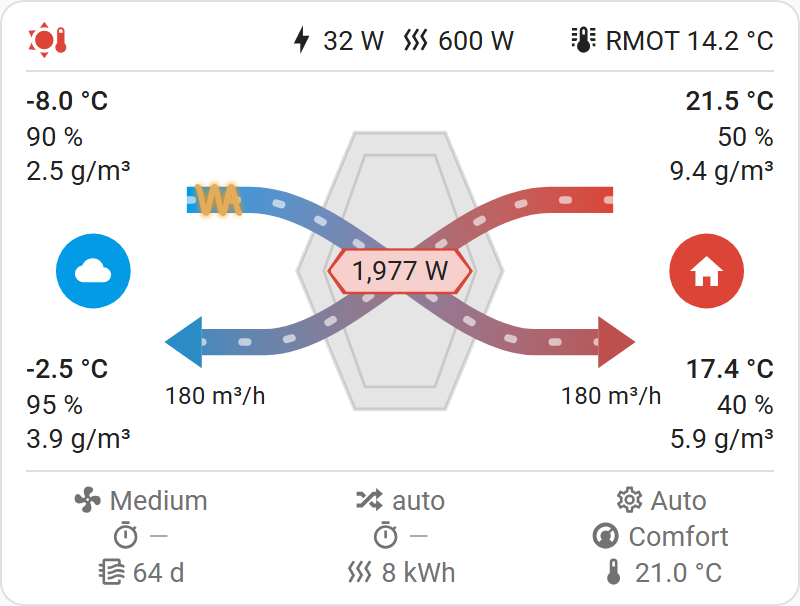
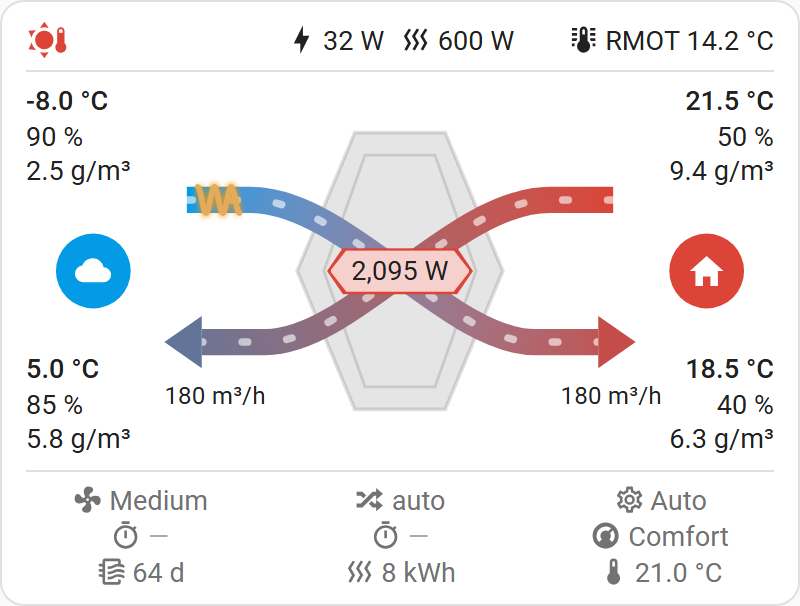
Group 7 review fixes (task 7.7)
Claude-Session: https://claude.ai/code/session_01HrZPjWz9gCSDpFKPRRFMuX

diff --git a/dev/preview.ts b/dev/preview.ts
@@ -58,10 +58,12 @@ const SCENARIOS: Readonly<Record<string, Scenario>> = {
     bypass: 50,
     season: 'between',
   },
-  // Frost: the pre-heater warms the outdoor air before the exchanger. Pick a kind and a maximum power to see the coil.
+  // Frost: the pre-heater warms the outdoor air before the exchanger: 600 W at 180 m³/h is +10 K, so the exchanger's
+  // inlet is about 2 °C and the exhaust and supply air lie between that and the extract air. Pick a kind and a maximum
+  // power to see the coil.
   'frost (pre-heater on)': {
-    temperature: { outdoor: -8, supply: 17.4, extract: 21.5, exhaust: -2.5 },
-    humidity: { outdoor: 90, supply: 40, extract: 50, exhaust: 95 },
+    temperature: { outdoor: -8, supply: 18.5, extract: 21.5, exhaust: 5 },
+    humidity: { outdoor: 90, supply: 40, extract: 50, exhaust: 85 },
     flow: 180,
     bypass: 0,
     preHeater: 600,

diff --git a/README.md b/README.md
@@ -649,12 +649,15 @@ npm run capture                  # README images of the three cards from the pre
 ```
 
 **README images:** `npm run capture` (`scripts/capture.mjs`) starts its own Vite server, drives the preview page
-with Playwright and writes the diagram in light and dark theme, the compact layout, on an ERV (plain and with the effectiveness rings) and in frost (coil glowing), the recovery bar,
-the moisture bar and the animated GIF of the bypass opening and closing (encoded in Node with `gifenc`, at most
-3 MB). Every GIF frame is checked while capturing: the supply and exhaust temperatures must lie between the
-outdoor and the extract temperature (heating or cooling), or the script fails. The mock states keep installation identifiers out of view. Two images are taken by hand from a live
-dashboard: `editor.png` (the diagram card's visual editor, opened from the card picker so no sensor is chosen) and
-`card-picker.png`; check them for entity IDs with a device serial and for host names before committing.
+with Playwright and writes the diagram in light and dark theme, the compact layout, on an ERV (plain and with the
+effectiveness rings) and in frost (coil glowing), the recovery bar, the moisture bar and the animated GIF of the
+bypass opening and closing (encoded in Node with `gifenc`, at most 3 MB). The air in the images must be physically
+possible, and the script fails otherwise: the supply and exhaust temperature and absolute humidity lie between the
+exchanger's inlet (the outdoor air, warmed by the pre-heater when it runs) and the extract air, in heating and in
+cooling. The GIF is checked at its closed and open endpoints, which cover every frame. The mock states keep
+installation identifiers out of view. Two images are taken by hand from a live dashboard: `editor.png` (the diagram
+card's visual editor, opened from the card picker so no sensor is chosen) and `card-picker.png`; check them for
+entity IDs with a device serial and for host names before committing.
 
 Only `npm run release` writes `dist/`; `npm run build` writes `build/`, so a work-in-progress bundle cannot end up
 in the deployed folder. `dist/` is committed, because deploys and HACS read it from the repo. `npm run release`
@@ -710,6 +713,8 @@ Planned with OpenSpec (CLI `openspec`, installed globally with npm).
   from the card config, visual editors, the drawn diagram, and the migration of the author's dashboards.
 - **Done: calculation in the card.** The cards calculate from the unit's raw sensors and need no helpers.
 - **Done: v0.2 of the cards** (released), with improvements to the cards themselves.
+- **Done: v0.3 of the cards** (released 2026-10-20): the effectiveness rings on the exchanger, the pre-heater coil with its
+  figure in the top row and its energy in the status grid, and the shown defaults in the editor.
 - **Next: a custom integration for history and energy statistics.** The cards show the present only. Power,
   energy, effectiveness and moisture rate sensors for charts and the energy dashboard come from template, filter
   and Riemann helpers in the author's installation today (a Jinja macro hard-coded to one unit); an integration

diff --git a/BACKLOG.md b/BACKLOG.md
@@ -36,7 +36,7 @@ then packaging.
   table: choose it from `hass.language` with English as the fallback, and test that every language has every key.
   Dutch first.
 - **Device auto-fill.** Pick a ComfoAir device in the editor and fill in all its entities.
-- **Non-breaking space in entity tooltips.** The tooltips built by `roleTitle` with `formatState` (`src/lib/hass.ts`)
+- **Non-breaking space in entity tooltips.** The tooltips built by `roleTitle` (`src/cards/ventilation-card.ts`) with `formatState` (`src/lib/hass.ts`)
   show Home Assistant's `formatEntityState` output, which joins the number and the unit with a plain space (for
   example "Pre-heater: 0 W"), and the fallback in `formatState` does the same. That breaks the rule from
   `src/strings.ts` that a number and its unit stay together with a non-breaking space. Possible fix: replace the
